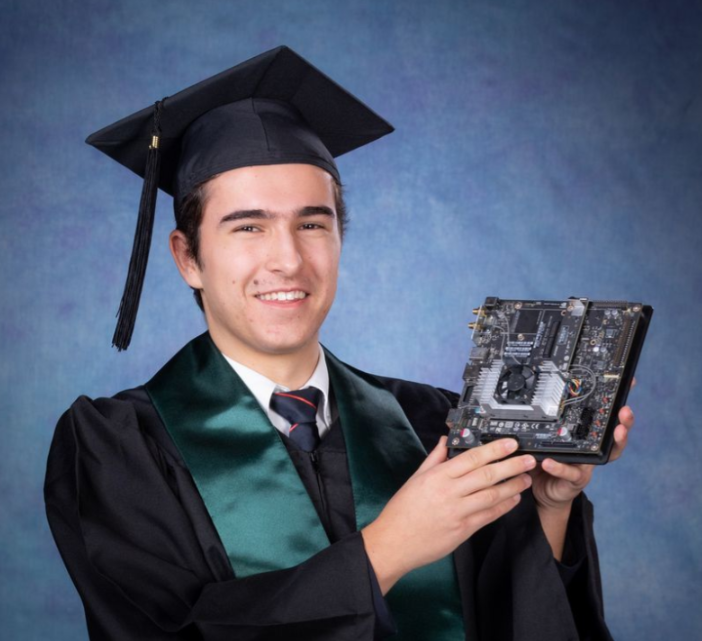
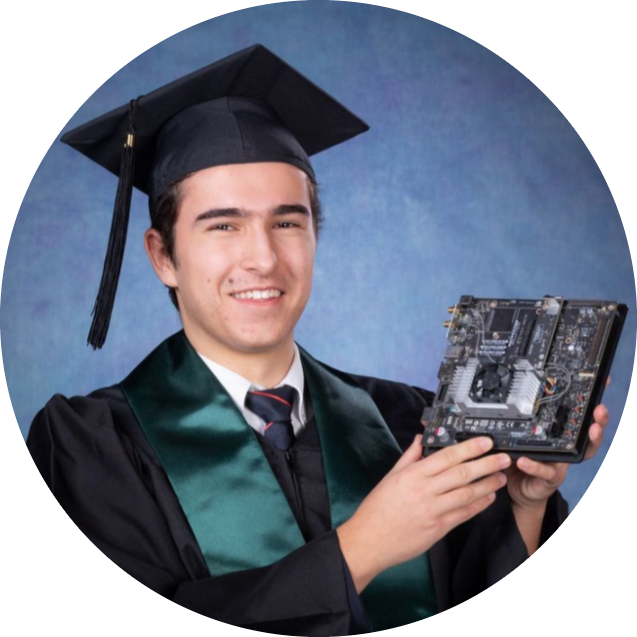
update

diff --git a/index.md b/index.md
@@ -1,4 +1,9 @@
-## Alexander Alexiev
+<h1 align="center"> Alexander Alexiev </h1>
+
+
+<p align="center">
+  <img width="300" src="https://github.com/Alex-Alexiev/alex-alexiev.github.io/blob/main/assets/images/alex_alexiev_1.png?raw=true">
+</p>
 
 You can use the [editor on GitHub](https://github.com/Alex-Alexiev/alex-alexiev.github.io/edit/main/index.md) to maintain and preview the content for your website in Markdown files.
 
@@ -11,7 +16,7 @@ Markdown is a lightweight and easy-to-use syntax for styling your writing. It in
 ```markdown
 Syntax highlighted code block
 
-# Header 2
+# Header 1
 ## Header 2
 ### Header 3
 
@@ -26,7 +31,6 @@ Syntax highlighted code block
 [Link](url) and ![Image](src)
 ```
 
-![image](https://github.com/Alex-Alexiev/alex-alexiev.github.io/assets/images/alex_alexiev_1.png)
 
 For more details see [Basic writing and formatting syntax](https://docs.github.com/en/github/writing-on-github/getting-started-with-writing-and-formatting-on-github/basic-writing-and-formatting-syntax).
 
